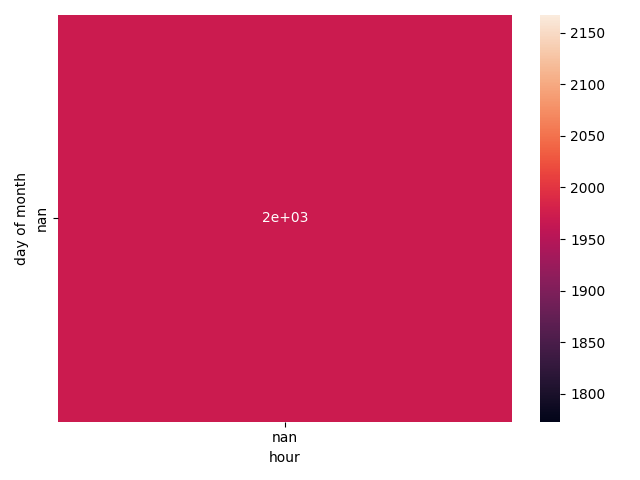
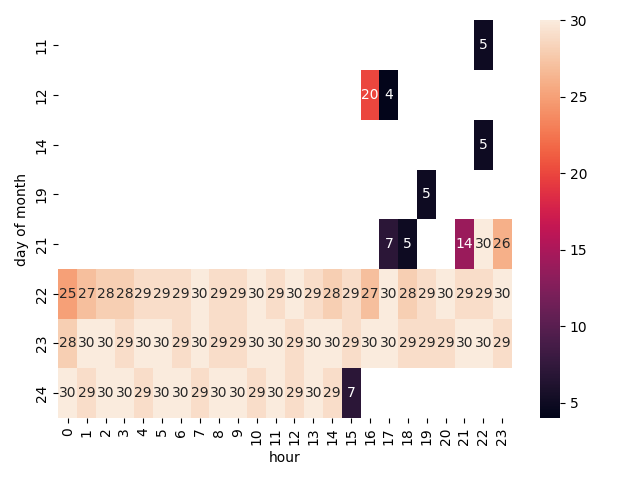
heatmap

diff --git a/acp23ws-COM6012/Q1_B.py b/acp23ws-COM6012/Q1_B.py
@@ -108,8 +108,9 @@ top_df.show()
 
 # convert str to timestamp
 # [01/Aug/1995:00:00:01 -0400]
-top_df = top_df.withColumn('to_timestamp', F.to_timestamp('timestamp', 'dd/mm/yyyy:HH:mm:ss Z'))\
-        .withColumn('day of month', F.dayofmonth('to_timestamp'))\
+top_df = top_df.withColumn('to_timestamp', F.to_timestamp(F.col('timestamp'), 'dd/MMM/yyyy:HH:mm:ss Z')).cache()
+top_df.show()
+top_df = top_df.withColumn('day of month', F.dayofmonth('to_timestamp'))\
         .withColumn('hour', F.hour('to_timestamp'))\
             .drop('timestamp').cache()
 top_df.show()
